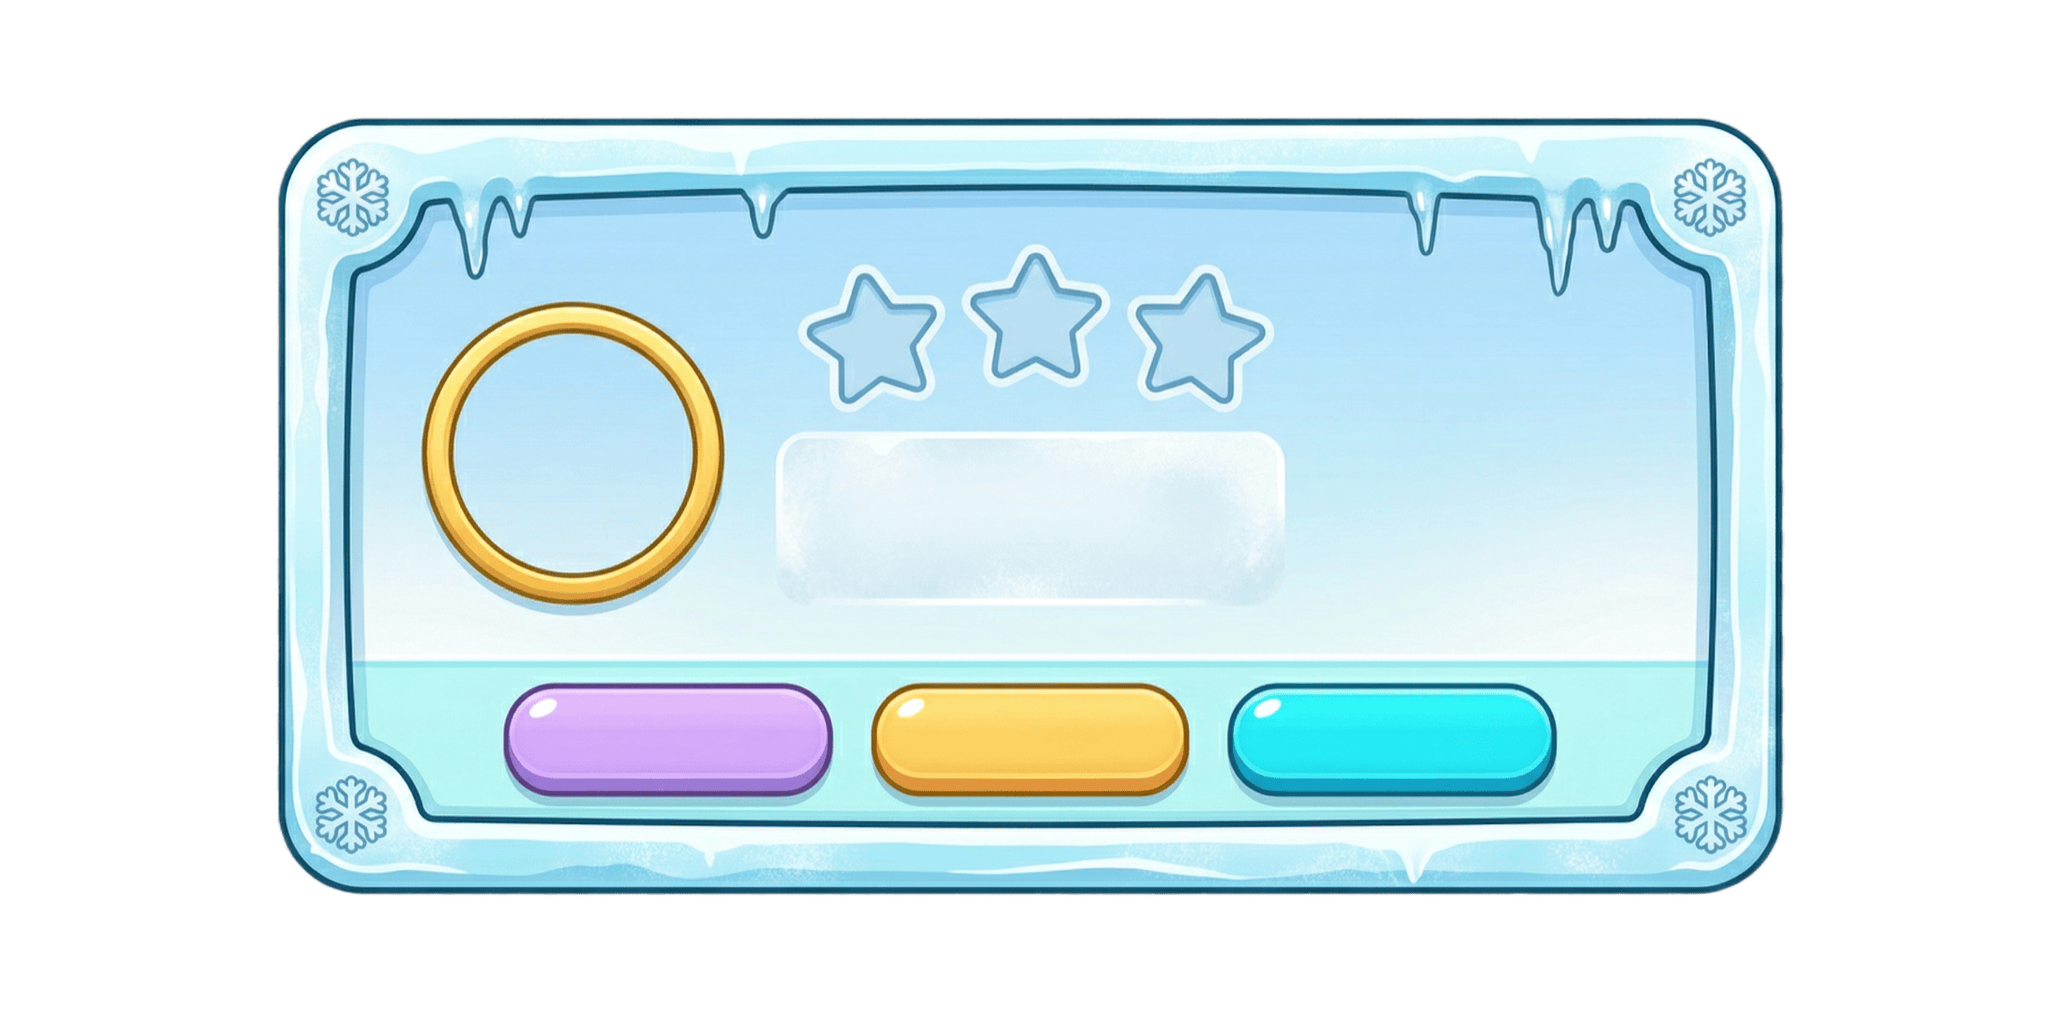
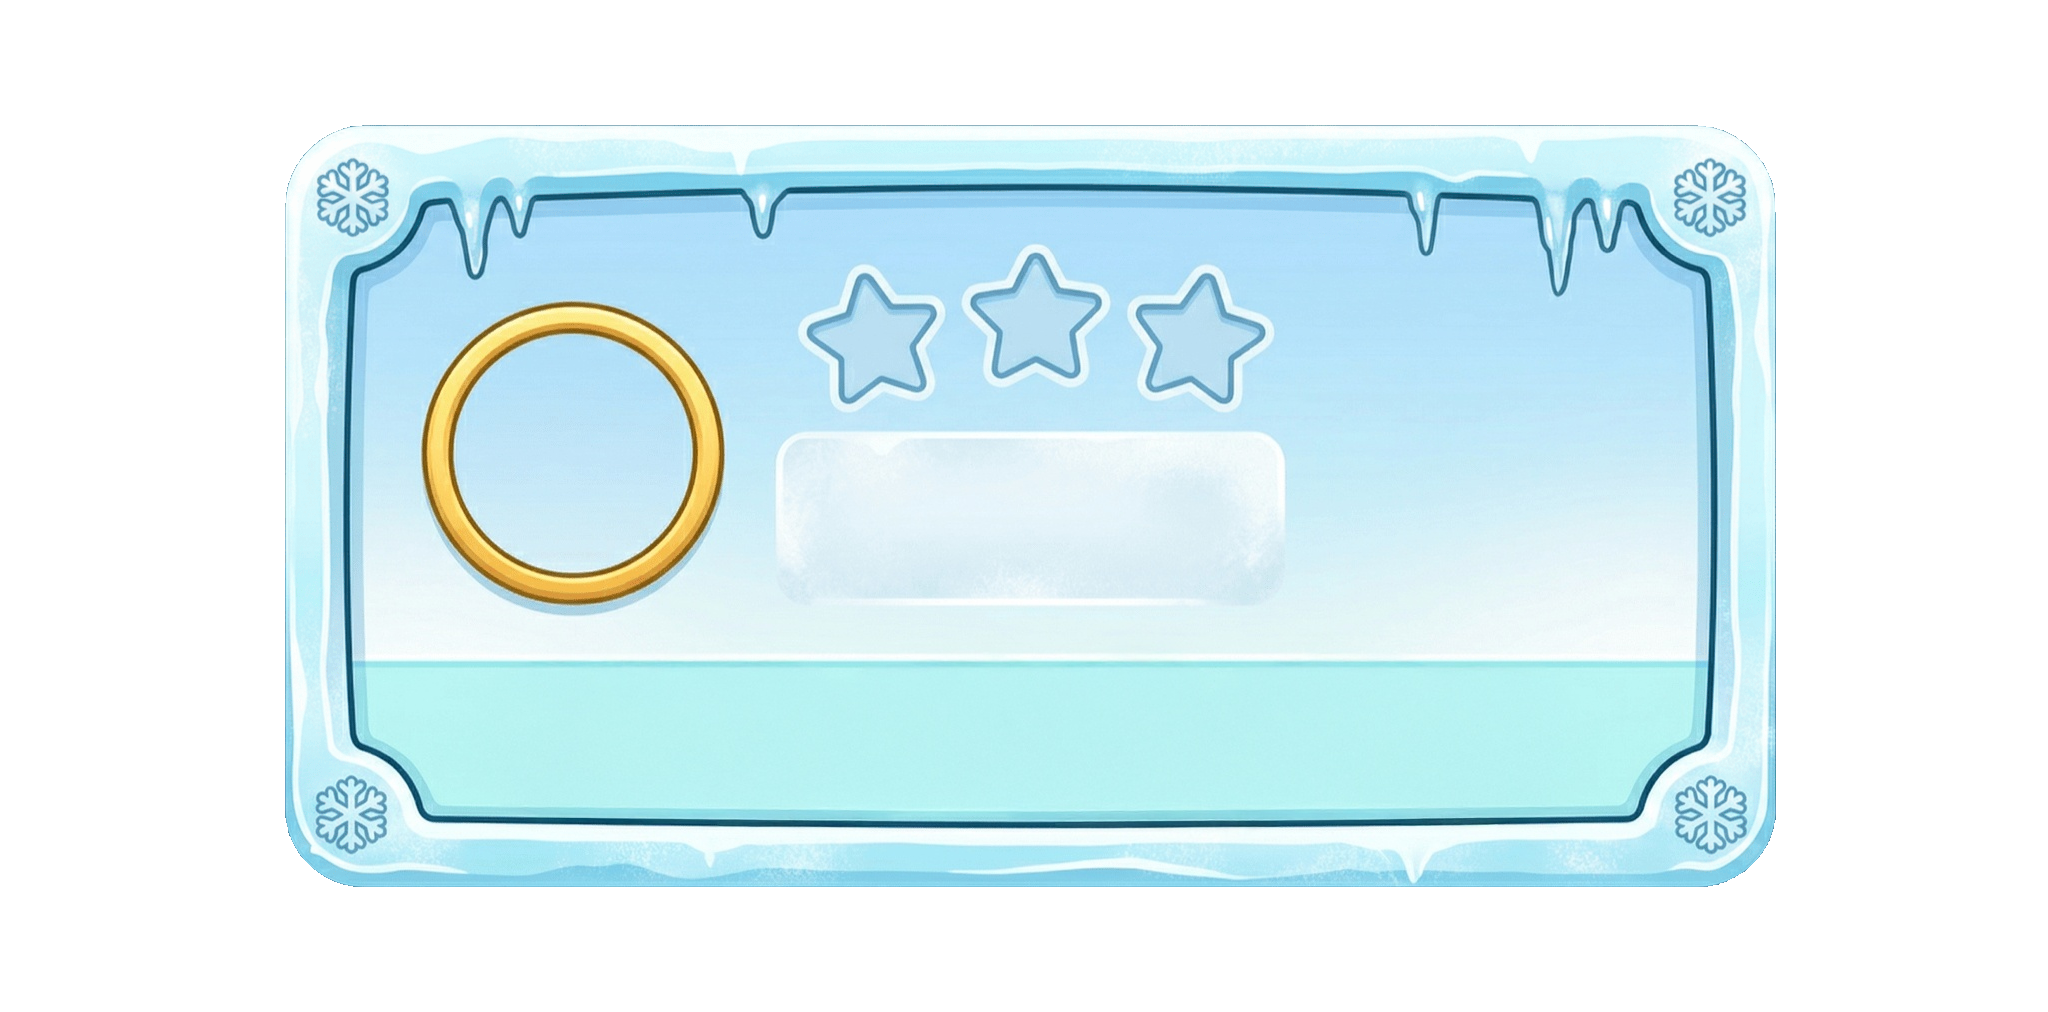
added inventory pagination, and fixed win dialog

Changed region(s): [[0.2188, 0.6739, 0.7812, 0.8271], [0.1562, 0.1225, 0.875, 0.8883], [0.125, 0.0919, 0.8438, 0.8577]]

diff --git a/src/map.js b/src/map.js
@@ -1172,41 +1172,88 @@ export function initMap() {
   const inventoryOpen = document.getElementById('inventoryMapOpen');
   const inventoryClose = document.getElementById('inventoryClose');
   const inventoryGrid = document.getElementById('inventoryGrid');
+  const inventoryDots = document.getElementById('inventoryDots');
+  const inventoryPrev = document.getElementById('inventoryPrev');
+  const inventoryNext = document.getElementById('inventoryNext');
+
+  const INVENTORY_ITEMS_PER_PAGE = 4;
+  let inventoryPage = 0;
 
   function renderInventoryGrid() {
     if (!inventoryGrid) return;
     const boosters = Inventory.getAllBoosters();
     const shards = Inventory.getShards();
+
+    // Collect non-zero items in display order
+    const items = INVENTORY_MAP_SLOTS.filter(def =>
+      (def.kind === 'booster' ? (boosters[def.id] ?? 0) : (shards[def.id] ?? 0)) > 0
+    );
+
+    const totalPages = Math.max(1, Math.ceil(items.length / INVENTORY_ITEMS_PER_PAGE));
+    inventoryPage = Math.min(inventoryPage, totalPages - 1);
+    const pageItems = items.slice(
+      inventoryPage * INVENTORY_ITEMS_PER_PAGE,
+      (inventoryPage + 1) * INVENTORY_ITEMS_PER_PAGE
+    );
+
+    // ── Grid ──
     inventoryGrid.innerHTML = '';
-    let rendered = 0;
-    for (const def of INVENTORY_MAP_SLOTS) {
-      const n = def.kind === 'booster' ? (boosters[def.id] ?? 0) : (shards[def.id] ?? 0);
-      if (n <= 0) continue; // hide empty items
-      const cell = document.createElement('div');
-      cell.className = 'inventory-slot';
-      cell.title = def.label;
-      const icon = document.createElement('img');
-      icon.className = 'inventory-slot__icon';
-      icon.src = def.icon;
-      icon.alt = def.label;
-      icon.draggable = false;
-      const qty = document.createElement('span');
-      qty.className = 'inventory-slot__qty';
-      qty.textContent = `×${n}`;
-      cell.appendChild(icon);
-      cell.appendChild(qty);
-      inventoryGrid.appendChild(cell);
-      rendered++;
-    }
-    if (rendered === 0) {
+    if (pageItems.length === 0) {
       const empty = document.createElement('div');
       empty.className = 'inventory-slot inventory-slot--empty';
       empty.textContent = 'No items yet';
       inventoryGrid.appendChild(empty);
+    } else {
+      for (const def of pageItems) {
+        const n = def.kind === 'booster' ? (boosters[def.id] ?? 0) : (shards[def.id] ?? 0);
+        const cell = document.createElement('div');
+        cell.className = 'inventory-slot';
+        cell.title = def.label;
+        const icon = document.createElement('img');
+        icon.className = 'inventory-slot__icon';
+        icon.src = def.icon;
+        icon.alt = def.label;
+        icon.draggable = false;
+        const qty = document.createElement('span');
+        qty.className = 'inventory-slot__qty';
+        qty.textContent = `×${n}`;
+        cell.appendChild(icon);
+        cell.appendChild(qty);
+        inventoryGrid.appendChild(cell);
+      }
+    }
+
+    // ── Navigation arrows ──
+    const multiPage = totalPages > 1;
+    if (inventoryPrev) {
+      inventoryPrev.hidden = !multiPage;
+      inventoryPrev.disabled = inventoryPage === 0;
+    }
+    if (inventoryNext) {
+      inventoryNext.hidden = !multiPage;
+      inventoryNext.disabled = inventoryPage === totalPages - 1;
+    }
+
+    // ── Dots ──
+    if (inventoryDots) {
+      inventoryDots.innerHTML = '';
+      if (multiPage) {
+        for (let i = 0; i < totalPages; i++) {
+          const dot = document.createElement('button');
+          dot.type = 'button';
+          dot.className = 'inventory-popup__dot' + (i === inventoryPage ? ' inventory-popup__dot--active' : '');
+          dot.setAttribute('aria-label', `Page ${i + 1}`);
+          dot.setAttribute('aria-current', i === inventoryPage ? 'true' : 'false');
+          const pg = i;
+          dot.addEventListener('click', () => { inventoryPage = pg; renderInventoryGrid(); });
+          inventoryDots.appendChild(dot);
+        }
+      }
     }
   }
 
   function openInventory() {
+    inventoryPage = 0;
     renderInventoryGrid();
     inventoryOverlay?.classList.add('active');
     inventoryOverlay?.setAttribute('aria-hidden', 'false');
@@ -1216,6 +1263,13 @@ export function initMap() {
     inventoryOverlay?.classList.remove('active');
     inventoryOverlay?.setAttribute('aria-hidden', 'true');
   }
+
+  inventoryPrev?.addEventListener('click', () => {
+    if (inventoryPage > 0) { inventoryPage--; renderInventoryGrid(); }
+  });
+  inventoryNext?.addEventListener('click', () => {
+    inventoryPage++; renderInventoryGrid();
+  });
 
   inventoryOpen?.addEventListener('click', e => {
     e.stopPropagation();

diff --git a/src/map.css b/src/map.css
@@ -1358,20 +1358,100 @@
   left: 14%;
   right: 14%;
   top: 32%;
-  bottom: 12%;
+  bottom: 8%;
   display: flex;
+  flex-direction: column;
   align-items: center;
   justify-content: center;
+  gap: clamp(4px, 1.6cqw, 10px);
 }
 
 .inventory-popup__grid {
   display: grid;
   grid-template-columns: repeat(4, 1fr);
-  grid-template-rows: repeat(2, 1fr);
   gap: clamp(6px, 3.2cqw, 20px);
   width: 100%;
-  height: 100%;
   min-height: 0;
+}
+
+/* Dot page indicator */
+.inventory-popup__dots {
+  display: flex;
+  flex-direction: row;
+  align-items: center;
+  justify-content: center;
+  gap: clamp(5px, 1.4cqw, 9px);
+  min-height: clamp(10px, 2.4cqw, 16px);
+}
+
+.inventory-popup__dot {
+  width: clamp(7px, 1.6cqw, 11px);
+  height: clamp(7px, 1.6cqw, 11px);
+  border-radius: 50%;
+  background: rgba(160, 210, 255, 0.35);
+  border: 1.5px solid rgba(120, 190, 255, 0.5);
+  transition: background 0.2s ease, transform 0.2s ease;
+  cursor: pointer;
+}
+
+.inventory-popup__dot--active {
+  background: rgba(90, 200, 255, 0.9);
+  border-color: rgba(180, 230, 255, 0.8);
+  transform: scale(1.25);
+}
+
+/* Pagination arrow buttons */
+.inventory-nav-btn {
+  position: absolute;
+  top: 50%;
+  transform: translateY(-50%);
+  z-index: 3;
+  width: clamp(28px, 7%, 52px);
+  height: clamp(28px, 7%, 52px);
+  padding: 0;
+  border: none;
+  background: transparent;
+  cursor: pointer;
+  display: flex;
+  align-items: center;
+  justify-content: center;
+  transition: transform 0.15s ease, opacity 0.15s ease;
+  filter: drop-shadow(0 2px 6px rgba(0, 30, 80, 0.4));
+}
+
+.inventory-nav-btn img {
+  width: 100%;
+  height: 100%;
+  object-fit: contain;
+  display: block;
+  pointer-events: none;
+}
+
+.inventory-nav-btn--prev {
+  left: 3%;
+}
+
+.inventory-nav-btn--prev img {
+  transform: rotate(180deg);
+}
+
+.inventory-nav-btn--next {
+  right: 3%;
+}
+
+.inventory-nav-btn:hover {
+  transform: translateY(-50%) scale(1.12);
+  filter: drop-shadow(0 2px 10px rgba(80, 180, 255, 0.55));
+}
+
+.inventory-nav-btn:active {
+  transform: translateY(-50%) scale(0.94);
+}
+
+.inventory-nav-btn:disabled {
+  opacity: 0.25;
+  cursor: default;
+  pointer-events: none;
 }
 
 .inventory-slot {

diff --git a/src/style.css b/src/style.css
@@ -674,7 +674,7 @@ body[data-screen="game"] {
   font-family: 'Fredoka', sans-serif;
   font-size: clamp(11px, 2.15cqw, 13px);
   font-weight: 800;
-  padding: clamp(3px, 1.05cqw, 6px) clamp(6px, 7cqw, 40px);
+  padding: clamp(3px, 1.05cqw, 6px) clamp(4px, 1.8cqw, 10px);
   border-radius: 20px;
   border: none;
   cursor: pointer;
@@ -682,6 +682,13 @@ body[data-screen="game"] {
   letter-spacing: 0.5px;
   background: transparent;
   color: #fff;
+  text-align: center;
+  white-space: nowrap;
+  overflow: hidden;
+  text-overflow: ellipsis;
+  display: flex;
+  align-items: center;
+  justify-content: center;
 }
 
 .level-popup-btn:hover {
@@ -1829,7 +1836,7 @@ body:not([data-screen="game"]) .shard-hud { display: none; }
 
   .level-popup-btn {
     font-size: clamp(9px, 2.35cqw, 12px);
-    padding: clamp(2px, 0.75cqw, 5px) clamp(4px, 3.4cqw, 18px);
+    padding: clamp(2px, 0.75cqw, 5px) clamp(3px, 1.4cqw, 8px);
     letter-spacing: 0.2px;
   }
 

diff --git a/index.html b/index.html
@@ -190,7 +190,15 @@
         <button type="button" class="inventory-popup__close" id="inventoryClose" aria-label="Close inventory"></button>
         <div class="inventory-popup__inner">
           <div class="inventory-popup__grid" id="inventoryGrid"></div>
+          <div class="inventory-popup__dots" id="inventoryDots" role="tablist" aria-label="Page"></div>
         </div>
+        <!-- Page navigation arrows -->
+        <button type="button" class="inventory-nav-btn inventory-nav-btn--prev" id="inventoryPrev" aria-label="Previous page" hidden>
+          <img src="/assets/ui/mini_arrow.png" draggable="false" alt="" />
+        </button>
+        <button type="button" class="inventory-nav-btn inventory-nav-btn--next" id="inventoryNext" aria-label="Next page" hidden>
+          <img src="/assets/ui/mini_arrow.png" draggable="false" alt="" />
+        </button>
       </div>
     </div>
 